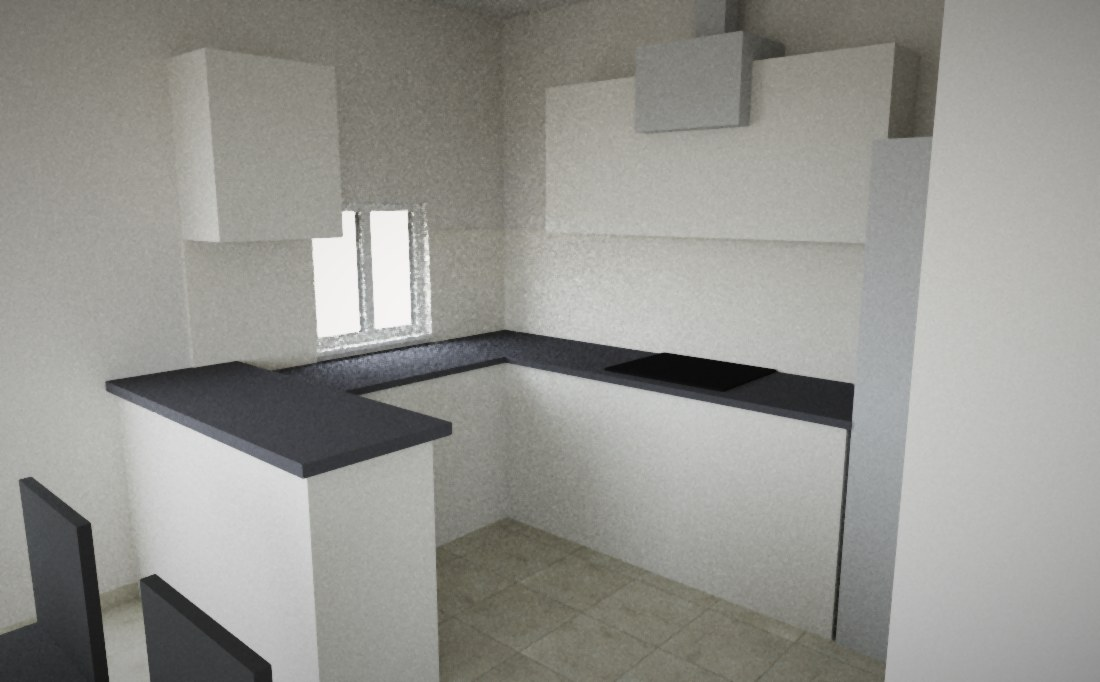
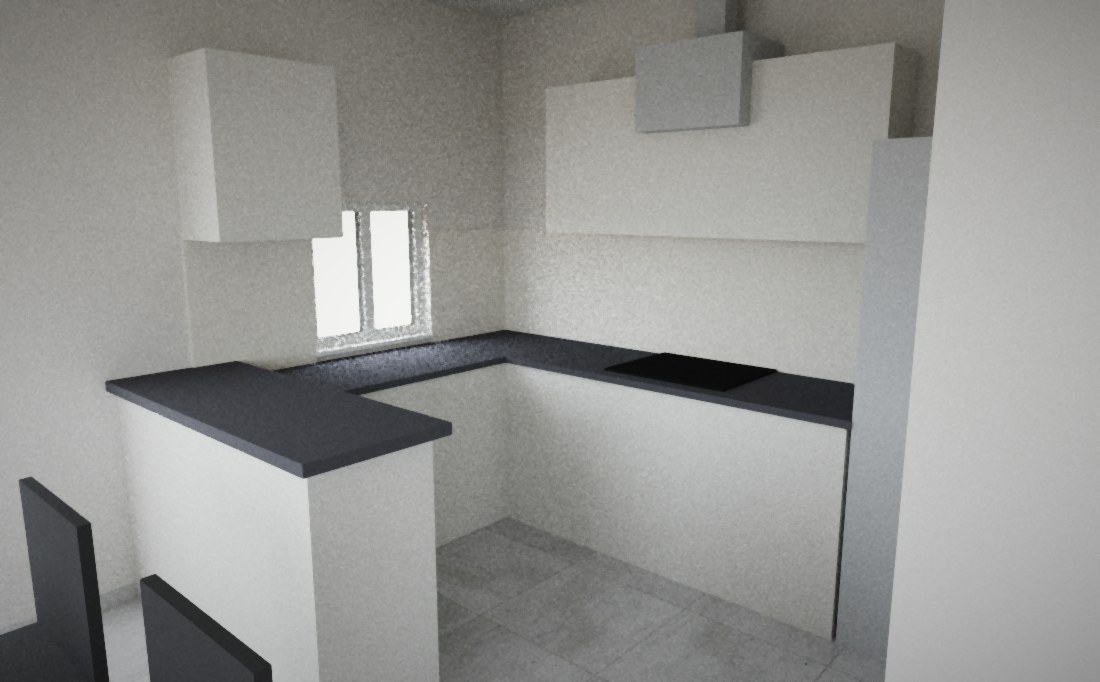
Zona social: cambio a porcelanato Striato Bianco pulido
Las 18 cajas de Jónico Gris (sin retirar) se cambiaron el 13/11 por 29
cajas de porcelanato Striato Bianco pulido 57,7x57,7; diferencia de
$ 600.000 en un pago. Gastos, cómputo y lista de compra actualizados
(falta el Keraflex y la pastina); renders del Living y la Cocina con el
piso nuevo.

Changed region(s): [[0.4327, 0.7698, 0.8036, 1.0], [0.4018, 0.8622, 0.4945, 0.893], [0.0927, 0.8622, 0.1236, 0.893]]

diff --git a/compras-pisos.html b/compras-pisos.html
@@ -58,13 +58,13 @@ p{font-size:13px;line-height:1.65}
 Precios de lista de la web al <b>11/11/2026</b> · <b>6 cuotas sin interés solo pagando con Nave</b> (por Mercado Pago tienen recargo: en el local fue ≈ 7 %) · <b>5% menos por transferencia</b>. Cantidades del <a href="computo.html#sec-7">cómputo de pisos y revestimientos</a>. Marcá cada ítem a medida que lo comprás (queda guardado en este navegador).</div>
 
 <div class="sheet">
-<h2>Ya comprado — 11/11 <span class="badge" style="background:#eef7ec;color:#4e7638">pisos de la casa</span></h2>
+<h2>Ya comprado — 11/11 y 13/11 <span class="badge" style="background:#eef7ec;color:#4e7638">pisos de la casa</span></h2>
 <table>
 <tr><th>Producto</th><th class="n">Cantidad</th><th class="n">Para</th><th class="n">Pagado</th></tr>
-<tr><td><a href="https://zeramiko.com/productos/ceramico-allpa-jonico-gris-36x36-1-80009-m2/" target="_blank">Cerámico Allpa 36x36 Jónico Gris, 1ª</a></td><td class="n">18 cajas · 48,24 m²</td><td class="n">Living-Comedor, Cocina, pasillos, Antebaño</td><td class="n">$ 521.375</td></tr>
+<tr><td><a href="https://zeramiko.com/productos/porcelanato-san-lorenzo-striato-bianco-pulido-57x57cm-1-calidad-23900-5cp0i/" target="_blank">Porcelanato San Lorenzo Striato Bianco pulido 57,7x57,7, 1ª</a><br><span style="font-size:11.5px;color:#8a877e">13/11 — a cambio de las 18 cajas de Jónico Gris (a cuenta $ 521.375) + $ 600.000 de diferencia</span></td><td class="n">29 cajas · 48,14 m²</td><td class="n">Living-Comedor, Cocina, pasillos, Antebaño</td><td class="n">$ 1.121.375</td></tr>
 <tr><td><a href="https://zeramiko.com/productos/ceramico-allpa-benfica-marfil-1-36x36-268m2-925090-26gqx/" target="_blank">Cerámico Allpa 36x36 Benfica Marfil, 1ª</a></td><td class="n">13 cajas · 34,84 m²</td><td class="n">Habitaciones 1, 2 y 3</td><td class="n">$ 376.549</td></tr>
-<tr><td>Pegamento Sika Ceram 25 kg (regalo por promo)</td><td class="n">10 bolsas</td><td class="n">Pisos de la casa</td><td class="n">$ 0</td></tr>
-<tr class="tot"><td colspan="3">Total — Mercado Pago, 6 cuotas de $ 149.654</td><td class="n">$ 897.924</td></tr>
+<tr><td>Pegamento Sika Ceram 25 kg (regalo por promo)</td><td class="n">10 bolsas</td><td class="n">Piso de los dormitorios (Benfica)</td><td class="n">$ 0</td></tr>
+<tr class="tot"><td colspan="3">Total — $ 897.924 en 6 cuotas de $ 149.654 (Mercado Pago) + $ 600.000 en un pago</td><td class="n">$ 1.497.924</td></tr>
 </table>
 <p style="font-size:12.5px;color:#6a6a63;margin-bottom:0">Alcanza con margen: la zona social necesita 42,9 m² y los dormitorios 28,0 m² (con 10% de desperdicio). Guardar al menos 1 caja de cada uno para reparaciones. Registrado en <a href="gastos.html">Gastos</a>.</p>
 </div>
@@ -80,9 +80,9 @@ Precios de lista de la web al <b>11/11/2026</b> · <b>6 cuotas sin interés solo
 <div class="sheet">
 <h2>Ideal — cálida <span style="font-weight:400;color:#8a877e;font-size:12.5px">piso del baño granito · paredes blancas · cocina plaqueta artesanal</span></h2>
 <div class="kpis">
-  <div class="kpi"><span>Total de lista</span><b>$ 477.441</b></div>
-  <div class="kpi"><span>6 cuotas sin interés (Nave)</span><b>$ 79.574</b></div>
-  <div class="kpi"><span>Por transferencia (−5%)</span><b>$ 453.569</b></div>
+  <div class="kpi"><span>Total de lista</span><b>$ 800.855</b></div>
+  <div class="kpi"><span>6 cuotas sin interés (Nave)</span><b>$ 133.476</b></div>
+  <div class="kpi"><span>Por transferencia (−5%)</span><b>$ 760.812</b></div>
 </div>
 
 <h3>Pisos y revestimientos</h3>
@@ -97,19 +97,19 @@ Precios de lista de la web al <b>11/11/2026</b> · <b>6 cuotas sin interés solo
 <table>
 <tr><th></th><th>Producto</th><th class="n">Cantidad</th><th class="n hide-m">Precio unidad</th><th class="n">Subtotal</th><th class="n hide-m">Stock web</th></tr>
 <tr data-id="c-mapeset"><td class="chk"><input type="checkbox"></td><td><span class="zona">Para el piso del Baño + Lavadero (≈ 5 kg/m²)</span><a href="https://zeramiko.com/productos/pegamento-mapeset-gris-ceramico-25kg/" target="_blank">Pegamento Mapeset Gris Cerámico 25 kg</a></td><td class="n"><b>2 bolsas</b></td><td class="n hide-m">$ 8.725</td><td class="n">$ 17.450</td><td class="n hide-m">300</td></tr>
+<tr data-id="c-keraflex"><td class="chk"><input type="checkbox"></td><td><span class="zona">Para el porcelanato de la zona social (doble encolado, ≈ 6,5 kg/m²)</span><a href="https://zeramiko.com/productos/adhesivo-cementicio-mapei-keraflex-grey-gris-25-kg-119125-1o7yi/" target="_blank">Adhesivo Mapei Keraflex Gris 25 kg</a><span class="det">Pegamento para porcelanato — el Sika Ceram de regalo es para el Benfica</span></td><td class="n"><b>11 bolsas</b></td><td class="n hide-m">$ 32.500</td><td class="n">$ 357.500</td><td class="n hide-m">50</td></tr>
 <tr data-id="c-construkor"><td class="chk"><input type="checkbox"></td><td><span class="zona">Para las paredes de Baño y Cocina (≈ 4 kg/m²)</span><a href="https://zeramiko.com/productos/pegamento-construkor-impermeable-x-25kg/" target="_blank">Pegamento Klaukol Construkor Impermeable 25 kg</a><span class="det">Para azulejos y cerámicas de pared</span></td><td class="n"><b>3 bolsas</b></td><td class="n hide-m">$ 6.800</td><td class="n">$ 20.400</td><td class="n hide-m">299</td></tr>
-<tr data-id="c-extra"><td class="chk"><input type="checkbox"></td><td><span class="zona">Refuerzo para los pisos de la casa — solo si el colocador lo pide</span><a href="https://zeramiko.com/productos/pegamento-mapeset-gris-ceramico-25kg/" target="_blank">Pegamento Mapeset Gris Cerámico 25 kg</a><span class="det">Las 10 bolsas de Sika Ceram cubren ≈ 250 kg; 64,5 m² de 36x36 usan 260–320 kg</span></td><td class="n"><b>3 bolsas</b></td><td class="n hide-m">$ 8.725</td><td class="n">$ 26.175</td><td class="n hide-m">300</td></tr>
-<tr data-id="c-pastinas"><td class="chk"><input type="checkbox"></td><td><span class="zona">Pastina Klaukol antihongos, bolsas de 1 kg</span><b>15 kg para los pisos de la casa</b> (un solo color para el Jónico Gris y el Benfica Marfil, elegido con las dos piezas en la mano) · 2 kg para el piso del Baño (<a href="https://zeramiko.com/productos/pastina-klukol-blenda-x-1kg/" target="_blank">Blenda</a> o <a href="https://zeramiko.com/productos/pastina-klukol-caoba-x-1kg/" target="_blank">Caoba</a>) · 4 kg para las paredes (<a href="https://zeramiko.com/productos/pastina-klaukol-talco-x-1kg/" target="_blank">Talco</a>, claro)<span class="det">Pedí ver la carta de colores en el local. Talco tiene solo 20 en stock web.</span></td><td class="n"><b>21 kg</b></td><td class="n hide-m">$ 2.637</td><td class="n">$ 55.377</td><td class="n hide-m">—</td></tr>
-<tr class="tot"><td></td><td>Total ideal cálida</td><td></td><td class="hide-m"></td><td class="n">$ 477.441</td><td class="hide-m"></td></tr>
+<tr data-id="c-pastinas"><td class="chk"><input type="checkbox"></td><td><span class="zona">Pastina Klaukol antihongos, bolsas de 1 kg</span><b>12 kg para los pisos de la casa</b>: 6 para el porcelanato y 6 para el Benfica, del mismo color (elegido con las dos piezas en la mano) · 2 kg para el piso del Baño (<a href="https://zeramiko.com/productos/pastina-klukol-blenda-x-1kg/" target="_blank">Blenda</a> o <a href="https://zeramiko.com/productos/pastina-klukol-caoba-x-1kg/" target="_blank">Caoba</a>) · 4 kg para las paredes (<a href="https://zeramiko.com/productos/pastina-klaukol-talco-x-1kg/" target="_blank">Talco</a>, claro)<span class="det">Pedí ver la carta de colores en el local. Talco tiene solo 20 en stock web.</span></td><td class="n"><b>18 kg</b></td><td class="n hide-m">$ 2.637</td><td class="n">$ 47.466</td><td class="n hide-m">—</td></tr>
+<tr class="tot"><td></td><td>Total ideal cálida</td><td></td><td class="hide-m"></td><td class="n">$ 800.855</td><td class="hide-m"></td></tr>
 </table>
 
 <h3>Mensaje para pedir confirmación</h3>
-<div class="msg" id="msg-calida">Hola! Ya compré los pisos (factura B 00052-00102024). Ahora quiero:
+<div class="msg" id="msg-calida">Hola! Ya compré los pisos (factura B 00052-00102024 y el cambio a porcelanato). Ahora quiero:
 • Cerámico Scop PS Granito Marrón 33x33: 5 cajas
 • Revestimiento Scop Acacia Blanco Satinado 33x45: 8 cajas
 • Revestimiento importado 7,5x26 Calce: 140 unidades
-• Mapeset 25 kg: 2 bolsas · Klaukol Construkor 25 kg: 3 bolsas
-• Pastina Klaukol: 21 kg (colores a elegir en el local)
+• Mapei Keraflex 25 kg: 11 bolsas · Mapeset 25 kg: 2 · Klaukol Construkor 25 kg: 3
+• Pastina Klaukol: 18 kg (colores a elegir en el local)
 
 ¿Me confirman:
 1. Stock de todo, con las cajas del mismo lote y tono?
@@ -125,37 +125,37 @@ Gracias!</div>
 <div class="sheet">
 <h2>Alternativa gris <span style="font-weight:400;color:#8a877e;font-size:12.5px">piso del baño gris mate · paredes blancas · cocina subway</span></h2>
 <div class="kpis">
-  <div class="kpi"><span>Total de lista</span><b>$ 513.097</b></div>
-  <div class="kpi"><span>6 cuotas sin interés (Nave)</span><b>$ 85.516</b></div>
-  <div class="kpi"><span>Por transferencia (−5%)</span><b>$ 487.442</b></div>
+  <div class="kpi"><span>Total de lista</span><b>$ 836.511</b></div>
+  <div class="kpi"><span>6 cuotas sin interés (Nave)</span><b>$ 139.419</b></div>
+  <div class="kpi"><span>Por transferencia (−5%)</span><b>$ 794.685</b></div>
 </div>
-<p style="font-size:12.5px;color:#6a6a63">Como el Antebaño quedó con el Jónico Gris, un piso gris en el Baño sigue la misma línea al pasar de un ambiente al otro.</p>
+<p style="font-size:12.5px;color:#6a6a63">Como el Antebaño va con el Striato Bianco (gris claro), un piso gris en el Baño sigue la misma línea al pasar de un ambiente al otro.</p>
 
 <h3>Pisos y revestimientos</h3>
 <table>
 <tr><th></th><th>Producto</th><th class="n">Cantidad</th><th class="n hide-m">Precio unidad</th><th class="n">Subtotal</th><th class="n hide-m">Stock web</th></tr>
 <tr data-id="g-bano"><td class="chk"><input type="checkbox"></td><td><span class="zona">Piso — Baño + Lavadero (7,5 m²)</span><a href="https://zeramiko.com/productos/ceramico-scop-cemento-tala-gris-1-45x45-226m2-900090-1jv7g/" target="_blank">Cerámico Scop Cemento Tala Gris 45x45</a><span class="det">1ª · mate · tránsito P4 · 2,26 m²/caja · llega a 9,04 m² (justo: si el colocador corta mucho, 5 cajas)</span></td><td class="n"><b>4 cajas</b></td><td class="n hide-m">$ 22.327</td><td class="n">$ 89.306</td><td class="n hide-m">200</td></tr>
 <tr data-id="g-pbano"><td class="chk"><input type="checkbox"></td><td><span class="zona">Paredes del Baño, a 2,10 m (14,7 m²)</span><a href="https://zeramiko.com/productos/revestimiento-scop-acacia-blanco-satinado-1-33x45-209m2-1070090-ds25w/" target="_blank">Revestimiento Scop Acacia Blanco Satinado 33x45</a><span class="det">1ª · 2,09 m²/caja · blanco para no cerrar un baño de 1,30 m de ancho · si lo querés gris: <a href="https://zeramiko.com/productos/rev-allpa-california-gris-claro-34x51-1-9-30090-m2-bzd2v/" target="_blank">Allpa California Gris Claro 34x51 mate</a></span></td><td class="n"><b>8 cajas</b></td><td class="n hide-m">$ 24.455</td><td class="n">$ 195.639</td><td class="n hide-m">500</td></tr>
-<tr data-id="g-coc"><td class="chk"><input type="checkbox"></td><td><span class="zona">Pared de la Cocina (2,4 m²)</span><a href="https://zeramiko.com/productos/revestimiento-linea-subway-blanco-brillante-75-x-15-cm-x-unidad-12pq4/" target="_blank">Revestimiento Subway Blanco Brillante 7,5x15</a><span class="det">Se vende por unidad (≈ 89 por m²) · blanco frío, acompaña el Jónico Gris</span></td><td class="n"><b>250 unid.</b></td><td class="n hide-m">$ 435</td><td class="n">$ 108.750</td><td class="n hide-m">500</td></tr>
+<tr data-id="g-coc"><td class="chk"><input type="checkbox"></td><td><span class="zona">Pared de la Cocina (2,4 m²)</span><a href="https://zeramiko.com/productos/revestimiento-linea-subway-blanco-brillante-75-x-15-cm-x-unidad-12pq4/" target="_blank">Revestimiento Subway Blanco Brillante 7,5x15</a><span class="det">Se vende por unidad (≈ 89 por m²) · blanco frío, acompaña el gris claro del Striato</span></td><td class="n"><b>250 unid.</b></td><td class="n hide-m">$ 435</td><td class="n">$ 108.750</td><td class="n hide-m">500</td></tr>
 </table>
 
 <h3>Pegamentos y pastinas</h3>
 <table>
 <tr><th></th><th>Producto</th><th class="n">Cantidad</th><th class="n hide-m">Precio unidad</th><th class="n">Subtotal</th><th class="n hide-m">Stock web</th></tr>
 <tr data-id="g-mapeset"><td class="chk"><input type="checkbox"></td><td><span class="zona">Para el piso del Baño + Lavadero</span><a href="https://zeramiko.com/productos/pegamento-mapeset-gris-ceramico-25kg/" target="_blank">Pegamento Mapeset Gris Cerámico 25 kg</a></td><td class="n"><b>2 bolsas</b></td><td class="n hide-m">$ 8.725</td><td class="n">$ 17.450</td><td class="n hide-m">300</td></tr>
+<tr data-id="g-keraflex"><td class="chk"><input type="checkbox"></td><td><span class="zona">Para el porcelanato de la zona social (doble encolado, ≈ 6,5 kg/m²)</span><a href="https://zeramiko.com/productos/adhesivo-cementicio-mapei-keraflex-grey-gris-25-kg-119125-1o7yi/" target="_blank">Adhesivo Mapei Keraflex Gris 25 kg</a><span class="det">Pegamento para porcelanato — el Sika Ceram de regalo es para el Benfica</span></td><td class="n"><b>11 bolsas</b></td><td class="n hide-m">$ 32.500</td><td class="n">$ 357.500</td><td class="n hide-m">50</td></tr>
 <tr data-id="g-construkor"><td class="chk"><input type="checkbox"></td><td><span class="zona">Para las paredes de Baño y Cocina</span><a href="https://zeramiko.com/productos/pegamento-construkor-impermeable-x-25kg/" target="_blank">Pegamento Klaukol Construkor Impermeable 25 kg</a></td><td class="n"><b>3 bolsas</b></td><td class="n hide-m">$ 6.800</td><td class="n">$ 20.400</td><td class="n hide-m">299</td></tr>
-<tr data-id="g-extra"><td class="chk"><input type="checkbox"></td><td><span class="zona">Refuerzo para los pisos de la casa — solo si el colocador lo pide</span><a href="https://zeramiko.com/productos/pegamento-mapeset-gris-ceramico-25kg/" target="_blank">Pegamento Mapeset Gris Cerámico 25 kg</a></td><td class="n"><b>3 bolsas</b></td><td class="n hide-m">$ 8.725</td><td class="n">$ 26.175</td><td class="n hide-m">300</td></tr>
-<tr data-id="g-pastinas"><td class="chk"><input type="checkbox"></td><td><span class="zona">Pastina Klaukol antihongos, bolsas de 1 kg</span><b>15 kg para los pisos de la casa</b> y 2 kg para el piso del Baño (gris: la web no la lista, pedirla en el local — <a href="https://zeramiko.com/productos/pastina-klaukol-hulla-x-1kg/" target="_blank">Hulla</a> es muy oscura) · 4 kg para las paredes (<a href="https://zeramiko.com/productos/pastina-klaukol-talco-x-1kg/" target="_blank">Talco</a>)<span class="det">Talco tiene solo 20 en stock web.</span></td><td class="n"><b>21 kg</b></td><td class="n hide-m">$ 2.637</td><td class="n">$ 55.377</td><td class="n hide-m">—</td></tr>
-<tr class="tot"><td></td><td>Total alternativa gris</td><td></td><td class="hide-m"></td><td class="n">$ 513.097</td><td class="hide-m"></td></tr>
+<tr data-id="g-pastinas"><td class="chk"><input type="checkbox"></td><td><span class="zona">Pastina Klaukol antihongos, bolsas de 1 kg</span><b>12 kg para los pisos de la casa</b> (porcelanato y Benfica, mismo color) y 2 kg para el piso del Baño (gris: la web no la lista, pedirla en el local — <a href="https://zeramiko.com/productos/pastina-klaukol-hulla-x-1kg/" target="_blank">Hulla</a> es muy oscura) · 4 kg para las paredes (<a href="https://zeramiko.com/productos/pastina-klaukol-talco-x-1kg/" target="_blank">Talco</a>)<span class="det">Talco tiene solo 20 en stock web.</span></td><td class="n"><b>18 kg</b></td><td class="n hide-m">$ 2.637</td><td class="n">$ 47.466</td><td class="n hide-m">—</td></tr>
+<tr class="tot"><td></td><td>Total alternativa gris</td><td></td><td class="hide-m"></td><td class="n">$ 836.511</td><td class="hide-m"></td></tr>
 </table>
 
 <h3>Mensaje para pedir confirmación</h3>
-<div class="msg" id="msg-gris">Hola! Ya compré los pisos (factura B 00052-00102024). Ahora quiero:
+<div class="msg" id="msg-gris">Hola! Ya compré los pisos (factura B 00052-00102024 y el cambio a porcelanato). Ahora quiero:
 • Cerámico Scop Cemento Tala Gris 45x45: 4 cajas
 • Revestimiento Scop Acacia Blanco Satinado 33x45: 8 cajas
 • Revestimiento Subway Blanco Brillante 7,5x15: 250 unidades
-• Mapeset 25 kg: 2 bolsas · Klaukol Construkor 25 kg: 3 bolsas
-• Pastina Klaukol: 21 kg (gris claro y Talco)
+• Mapei Keraflex 25 kg: 11 bolsas · Mapeset 25 kg: 2 · Klaukol Construkor 25 kg: 3
+• Pastina Klaukol: 18 kg (gris claro y Talco)
 
 ¿Me confirman:
 1. Stock de todo, con las cajas del mismo lote y tono?
@@ -172,7 +172,7 @@ Gracias!</div>
 <ol class="check">
 <li><b>Mismo lote y tono</b> en todas las cajas de cada producto. Comprá cada uno de una vez.</li>
 <li><b>Baño:</b> que confirmen que el piso elegido es antideslizante o apto para ducha.</li>
-<li><b>Pastinas:</b> llevá una pieza del Jónico Gris y una del Benfica Marfil y elegí un solo color que vaya con las dos.</li>
+<li><b>Pastinas:</b> llevá una pieza del Striato Bianco y una del Benfica Marfil y elegí un solo color que vaya con las dos.</li>
 <li><b>Pago:</b> elegí <b>Nave</b> para las 6 cuotas sin interés. Con Mercado Pago, en la compra de los pisos hubo ≈ 7 % de recargo ($ 58.742).</li>
 <li><b>Envío:</b> preguntá costo y que entreguen todo junto.</li>
 </ol>
@@ -181,9 +181,9 @@ Gracias!</div>
 <div class="sheet">
 <h2>Para el colocador — pisos de la casa</h2>
 <ol class="check">
-<li>El cambio de Jónico Gris a Benfica Marfil va <b>justo debajo de la hoja de cada puerta de dormitorio</b>, cerrada.</li>
-<li>Las dos son 36x36: arrancar el replanteo desde el pasillo para que <b>las juntas sigan en línea</b> al entrar a cada habitación.</li>
-<li><b>Misma pastina</b> en las dos zonas, juntas de ≈ 3 mm.</li>
+<li>El cambio de Striato Bianco (porcelanato) a Benfica Marfil (cerámico) va <b>justo debajo de la hoja de cada puerta de dormitorio</b>, cerrada. Ojo con el espesor: si no coinciden, nivelar con el pegamento para que no quede escalón.</li>
+<li>Porcelanato de 57,7x57,7 rectificado: <b>carpeta bien plana</b> (regla de 2 m), <b>niveladores</b> y <b>doble encolado con Keraflex</b>, junta de ~2 mm. Arrancar el replanteo desde el centro del pasillo para que los cortes queden parejos.</li>
+<li><b>Misma pastina</b> en las dos zonas: junta de ~2 mm en el porcelanato y ~3 mm en el Benfica.</li>
 <li>Mezclar piezas de varias cajas al colocar, para repartir cualquier diferencia de tono.</li>
 <li>Guardar al menos <b>1 caja de cada piso</b> para reparaciones.</li>
 </ol>

diff --git a/computo.html b/computo.html
@@ -199,9 +199,9 @@ h2{scroll-margin-top:12px}
 </div>
 
 <div class="sheet">
-<h2>Pisos y revestimientos <span class="badge badge-live">piso de la casa comprado</span></h2>
+<h2>Pisos y revestimientos <span class="badge badge-live">pisos de la casa comprados</span></h2>
 <div class="ok"><b>Lo que falta comprar</b> (Baño + Lavadero, paredes, pegamentos y pastinas) está en la <a href="compras-pisos.html">lista de compra de pisos y revestimientos</a>, con precios, cuotas y la alternativa gris.</div>
-<p>Superficie de piso <b>real</b> por ambiente: las medidas del <a href="plano-general.html">cuadro de superficies</a> son a eje de muro, así que a cada lado se descuentan ~0,10 m (medio muro de 0,15 m + revoque). Se separa en dos zonas porque Baño y Lavadero llevan otro piso (antideslizante, pieza chica que siga la pendiente de la ducha y de las rejillas). El resto de la casa lleva dos cerámicos parecidos del mismo formato (36x36): uno para la zona social y otro para los dormitorios. No incluye Galería ni Garage, ni revestimiento de paredes.</p>
+<p>Superficie de piso <b>real</b> por ambiente: las medidas del <a href="plano-general.html">cuadro de superficies</a> son a eje de muro, así que a cada lado se descuentan ~0,10 m (medio muro de 0,15 m + revoque). Se separa en dos zonas porque Baño y Lavadero llevan otro piso (antideslizante, pieza chica que siga la pendiente de la ducha y de las rejillas). El resto de la casa lleva dos pisos: porcelanato pulido en la zona social y cerámico en los dormitorios, los dos claros con aspecto mármol. No incluye Galería ni Garage, ni revestimiento de paredes.</p>
 
 <h3>Superficie por ambiente</h3>
 <table><tr><th>Zona</th><th>Ambiente</th><th style="text-align:right">Piso real (m²)</th></tr>
@@ -226,13 +226,13 @@ h2{scroll-margin-top:12px}
 <tr><td>Baño + Lavadero</td><td class="n">7,5 m²</td><td class="n">—</td><td class="n"><b>8,7 m²</b></td></tr>
 </table>
 
-<h3>Resto de la casa — comprado el 11/11</h3>
+<h3>Resto de la casa — comprado (11/11 y cambio del 13/11)</h3>
 <table><tr><th>Zona</th><th>Producto</th><th style="text-align:right">Necesario<br>(piso + 10%)</th><th style="text-align:right">Comprado</th><th style="text-align:right">Sobra</th></tr>
-<tr><td>Living-Comedor, Cocina, pasillos y Antebaño<br><span style="font-size:11.5px;color:#8a877e">39,0 m² de piso</span></td><td><a href="https://zeramiko.com/productos/ceramico-allpa-jonico-gris-36x36-1-80009-m2/" target="_blank">Cerámico Allpa 36x36 Jónico Gris</a>, 1ª</td><td class="n">42,9 m²</td><td class="n"><b>18 cajas</b> · 48,24 m²</td><td class="n">5,3 m² (≈ 2 cajas)</td></tr>
+<tr><td>Living-Comedor, Cocina, pasillos y Antebaño<br><span style="font-size:11.5px;color:#8a877e">39,0 m² de piso</span></td><td><a href="https://zeramiko.com/productos/porcelanato-san-lorenzo-striato-bianco-pulido-57x57cm-1-calidad-23900-5cp0i/" target="_blank">Porcelanato San Lorenzo Striato Bianco pulido 57,7x57,7</a>, 1ª<br><span style="font-size:11.5px;color:#8a877e">Comprado el 13/11, a cambio de las 18 cajas de Jónico Gris del 11/11</span></td><td class="n">42,9 m²</td><td class="n"><b>29 cajas</b> · 48,14 m²</td><td class="n">5,2 m² (≈ 3 cajas)</td></tr>
 <tr><td>Habitaciones 1, 2 y 3<br><span style="font-size:11.5px;color:#8a877e">25,5 m² de piso</span></td><td><a href="https://zeramiko.com/productos/ceramico-allpa-benfica-marfil-1-36x36-268m2-925090-26gqx/" target="_blank">Cerámico Allpa 36x36 Benfica Marfil</a>, 1ª</td><td class="n">28,0 m²</td><td class="n"><b>13 cajas</b> · 34,84 m²</td><td class="n">6,8 m² (≈ 2,5 cajas)</td></tr>
-<tr class="tot"><td colspan="2">Total</td><td class="n">70,9 m²</td><td class="n">31 cajas · 83,08 m²</td><td class="n">12,1 m²</td></tr>
+<tr class="tot"><td colspan="2">Total</td><td class="n">70,9 m²</td><td class="n">82,98 m²</td><td class="n">12,1 m²</td></tr>
 </table>
-<p style="font-size:12.5px;color:#6a6a63">Con la compra vinieron de regalo <b>10 bolsas de pegamento Sika Ceram</b> (promo: 1 cada 8 m²). Para 64,5 m² de cerámico 36x36 se usan unos 4–5 kg/m² (260–320 kg): pueden faltar 1 a 3 bolsas — comprarlas cuando el colocador lo pida. Pastina para los pisos: ≈ 15 kg, del <b>mismo color en las dos zonas</b> para que el cambio de piso se lea continuo. El cambio de cerámico va justo debajo de la hoja de cada puerta de dormitorio, con las juntas alineadas (mismo módulo de 36 cm). Guardar al menos 1 caja de cada uno para reparaciones. Gasto registrado en <a href="gastos.html">Gastos</a>.</p>
+<p style="font-size:12.5px;color:#6a6a63"><b>Porcelanato:</b> falta comprar el pegamento para porcelanato (Keraflex, 11 bolsas, doble encolado; el Sika Ceram es para cerámico), carpeta bien plana (regla de 2 m), niveladores y junta de ~2 mm; ≈ 6 kg de pastina. Al ser pulido resbala mojado: felpudo absorbente en la corrediza y alfombra frente a la bacha. <b>Benfica:</b> las 10 bolsas de Sika Ceram de regalo quedaron para los dormitorios; 25,5 m² usan ≈ 130 kg (unas 5 bolsas), así que sobran. ≈ 6 kg de pastina, del <b>mismo color que la del porcelanato</b>. El cambio de piso va justo debajo de la hoja de cada puerta de dormitorio; cuidar que no quede escalón entre los dos espesores. Lo que falta comprar está en la <a href="compras-pisos.html">lista de compra</a>; el gasto, en <a href="gastos.html">Gastos</a>. Guardar al menos 1 caja de cada uno para reparaciones. Gasto registrado en <a href="gastos.html">Gastos</a>.</p>
 
 <h3>Baño + Lavadero — elegido</h3>
 <table><tr><th>Producto</th><th style="text-align:right">m² por caja</th><th style="text-align:right">Cajas</th><th style="text-align:right">m² que llegan</th></tr>
@@ -257,16 +257,16 @@ h2{scroll-margin-top:12px}
 <div class="warn"><b>Al pedir, redondear para arriba a cajas enteras</b> según los m² que trae cada caja del producto elegido. Baño y Lavadero llevan siempre 15% por los cortes alrededor de la ducha y las rejillas. Comprar todas las cajas de una zona juntas y del <b>mismo lote, tono y calibre</b> — si después faltan, las nuevas pueden no coincidir.</div>
 
 <h3>Cómo queda</h3>
-<p>Renders de cada ambiente con los pisos comprados (Jónico Gris en la zona social, Benfica Marfil en los dormitorios), según el plano. Tocá una imagen para verla en grande; cada ficha de ambiente tiene la suya.</p>
+<p>Renders de cada ambiente con los pisos comprados (porcelanato Striato Bianco pulido en la zona social, Benfica Marfil en los dormitorios), según el plano. Tocá una imagen para verla en grande; cada ficha de ambiente tiene la suya.</p>
 <div class="pisos-gal">
-<a href="renders/ambientes/living-comedor-1.jpg" target="_blank"><img src="renders/ambientes/living-comedor-1.jpg" alt="Living-Comedor" loading="lazy"><span>Living-Comedor — Jónico Gris</span></a>
+<a href="renders/ambientes/living-comedor-1.jpg" target="_blank"><img src="renders/ambientes/living-comedor-1.jpg" alt="Living-Comedor" loading="lazy"><span>Living-Comedor — Striato Bianco pulido</span></a>
 <a href="renders/ambientes/living-comedor-2.jpg" target="_blank"><img src="renders/ambientes/living-comedor-2.jpg" alt="Living-Comedor desde el Comedor" loading="lazy"><span>Living-Comedor, desde el Comedor</span></a>
-<a href="renders/ambientes/cocina.jpg" target="_blank"><img src="renders/ambientes/cocina.jpg" alt="Cocina" loading="lazy"><span>Cocina — Jónico Gris + pared Calce</span></a>
+<a href="renders/ambientes/cocina.jpg" target="_blank"><img src="renders/ambientes/cocina.jpg" alt="Cocina" loading="lazy"><span>Cocina — Striato Bianco + pared Calce</span></a>
 <a href="renders/ambientes/habitacion-1.jpg" target="_blank"><img src="renders/ambientes/habitacion-1.jpg" alt="Habitación 1" loading="lazy"><span>Habitación 1 — Benfica Marfil</span></a>
 <a href="renders/ambientes/habitacion-2.jpg" target="_blank"><img src="renders/ambientes/habitacion-2.jpg" alt="Habitación 2" loading="lazy"><span>Habitación 2 — Benfica Marfil</span></a>
 <a href="renders/ambientes/habitacion-3.jpg" target="_blank"><img src="renders/ambientes/habitacion-3.jpg" alt="Habitación 3" loading="lazy"><span>Habitación 3 — Benfica Marfil</span></a>
 </div>
-<p style="font-size:12px;color:#8a877e">El color del piso sale de las fotos de las piezas en el local. Muebles simplificados.</p>
+<p style="font-size:12px;color:#8a877e">El color del Benfica sale de las fotos de las piezas en el local; el del Striato, de la foto del fabricante. Muebles simplificados.</p>
 </div>
 
 <div class="sheet">

diff --git a/gastos.html b/gastos.html
@@ -280,6 +280,7 @@ Registro manual de compras y pagos — se actualiza a medida que se van cargando
 <p class="pendiente"><b>Sobre el destino "Tapia Este":</b> las compras del 25/06 en adelante se asumieron como compradas por adelantado para esa tarea (arrancó el 13/07) — es una inferencia por fecha, no un dato confirmado en la boleta.</p>
 <p class="pendiente"><b>Sobre la Casa (Etapa 3):</b> las compras se separan por tarea (cimientos y estructura, mampostería, capa aisladora, relleno y contrapiso). El plástico va en relleno y contrapiso porque se usó bajo el contrapiso y en las paredes interiores hasta el nivel del relleno. Los valores de la boleta final del 30/07 (Nº 0019-00046759) ya tienen aplicado el descuento por contado — la Plasticor bajó de 60 a 50 bolsas respecto del presupuesto inicial del mismo día.</p>
 <p class="pendiente"><b>Pisos de la Casa (11/11, Zeramiko):</b> pagado con tarjeta por Mercado Pago en 6 cuotas — el precio por caja de la factura ($ 28.965,30) ya incluye el recargo de esa forma de pago, ≈ 7 % sobre el precio de lista ($ 10.100,90/m² = $ 27.070,41 la caja). Las 10 bolsas de Sika Ceram fueron de regalo por la promo. A qué zona va cada piso se dedujo de las cantidades: el Jónico Gris (48,2 m²) es el único que alcanza para la zona social.</p>
+<p class="pendiente"><b>Cambio a porcelanato (13/11):</b> sin haber retirado el Jónico Gris, se cambiaron sus 18 cajas por 29 cajas de porcelanato Striato Bianco pulido para la zona social. Los $ 521.375 del Jónico quedaron a cuenta del porcelanato y se pagaron <b>$ 600.000 de diferencia en un solo pago</b>; la factura original sigue en sus 6 cuotas de Mercado Pago. El porcelanato costó en total $ 1.121.375 (≈ $ 38.668 la caja). Las 10 bolsas de Sika Ceram quedaron para el Benfica de los dormitorios.</p>
 </div>
 </div>
 
@@ -436,9 +437,10 @@ const MATERIALES = [
   {fecha:'2026-09-22', etapa:'Etapa 3', comp:'sin comprobante', prov:'Efectivo', destino:'Relleno y contrapiso — Casa', item:'Ripio para contrapiso', precio:'—', desc:'—', cant:'—', subtotal:150000},
   {fecha:'2026-09-22', etapa:'Etapa 3', comp:'sin comprobante', prov:'Efectivo', destino:'Relleno y contrapiso — Casa', item:'Cemento', precio:'$ 7.280,00', desc:'—', cant:'25', subtotal:182000},
   {fecha:'2026-09-23', etapa:'Etapa 3', comp:'sin comprobante', prov:'Efectivo', destino:'Relleno y contrapiso — Casa', item:'Cemento', precio:'$ 7.280,00', desc:'—', cant:'25', subtotal:182000},
-  {fecha:'2026-11-11', etapa:'Etapa 3', comp:'B 00052-00102024', prov:'Zeramiko', destino:'Pisos — Casa', item:'Cerámico Allpa 36x36 Jónico Gris 1ª (2,68 m²/caja) — Living-Comedor, Cocina, pasillos y Antebaño', precio:'$ 28.965,30', desc:'—', cant:'18 cajas', subtotal:521375},
+  {fecha:'2026-11-11', etapa:'Etapa 3', comp:'B 00052-00102024', prov:'Zeramiko', destino:'Pisos — Casa', item:'Cerámico Allpa 36x36 Jónico Gris 1ª (2,68 m²/caja) — cambiado el 13/11 por porcelanato (el importe quedó a cuenta)', precio:'$ 28.965,30', desc:'—', cant:'18 cajas', subtotal:521375},
   {fecha:'2026-11-11', etapa:'Etapa 3', comp:'B 00052-00102024', prov:'Zeramiko', destino:'Pisos — Casa', item:'Cerámico Allpa 36x36 Benfica Marfil 1ª (2,68 m²/caja) — dormitorios', precio:'$ 28.965,30', desc:'—', cant:'13 cajas', subtotal:376549},
-  {fecha:'2026-11-11', etapa:'Etapa 3', comp:'B 00052-00102024', prov:'Zeramiko', destino:'Pisos — Casa', item:'Pegamento Sika Ceram (promo: 1 bolsa cada 8 m² de cerámico)', precio:'$ 0,00', desc:'regalo', cant:'10 bolsas', subtotal:0}
+  {fecha:'2026-11-11', etapa:'Etapa 3', comp:'B 00052-00102024', prov:'Zeramiko', destino:'Pisos — Casa', item:'Pegamento Sika Ceram (promo: 1 bolsa cada 8 m² de cerámico)', precio:'$ 0,00', desc:'regalo', cant:'10 bolsas', subtotal:0},
+  {fecha:'2026-11-13', etapa:'Etapa 3', comp:'cambio sobre B 00052-00102024', prov:'Zeramiko', destino:'Pisos — Casa', item:'Porcelanato San Lorenzo Striato Bianco pulido 57,7x57,7 1ª (1,66 m²/caja) — Living-Comedor, Cocina, pasillos y Antebaño · diferencia del cambio por el Jónico', precio:'—', desc:'—', cant:'29 cajas', subtotal:600000}
 ];
 
 // Expuestos para que computo.html los lea en vivo por iframe (cruce comprado vs. estimado).

diff --git a/ambientes/living-comedor.html b/ambientes/living-comedor.html
@@ -70,10 +70,10 @@ p{font-size:13px;line-height:1.65}
 </div>
 
 <div class="sheet">
-<h2>Cómo queda <span style="font-weight:400;color:#8a877e;font-size:12.5px">Piso Allpa Jónico Gris 36x36</span></h2>
+<h2>Cómo queda <span style="font-weight:400;color:#8a877e;font-size:12.5px">Piso porcelanato Striato Bianco pulido 57,7x57,7</span></h2>
 <a href="../renders/ambientes/living-comedor-1.jpg" target="_blank"><img src="../renders/ambientes/living-comedor-1.jpg" alt="Living-Comedor visto desde el Living hacia el Comedor y la galería" loading="lazy" style="width:100%;height:auto;display:block;border:1px solid #e3e0d7;border-radius:6px;margin-top:10px"></a>
 <a href="../renders/ambientes/living-comedor-2.jpg" target="_blank"><img src="../renders/ambientes/living-comedor-2.jpg" alt="Living-Comedor visto desde el Comedor hacia el Living" loading="lazy" style="width:100%;height:auto;display:block;border:1px solid #e3e0d7;border-radius:6px;margin-top:10px"></a>
-<p style="font-size:12px;color:#8a877e;margin:8px 0 0">Render según el plano: aberturas, muebles y luces en su lugar, piezas y juntas a tamaño real. El color del piso sale de las fotos del local; los muebles son de referencia.</p>
+<p style="font-size:12px;color:#8a877e;margin:8px 0 0">Render según el plano: aberturas, muebles y luces en su lugar, piezas y juntas a tamaño real. El color del piso sale de la foto del fabricante (puede verse más blanco que en persona); los muebles son de referencia.</p>
 </div>
 
 <div class="sheet">

diff --git a/ambientes/cocina.html b/ambientes/cocina.html
@@ -109,9 +109,9 @@ p{font-size:13px;line-height:1.65}
 </div>
 
 <div class="sheet">
-<h2>Cómo queda <span style="font-weight:400;color:#8a877e;font-size:12.5px">Piso Allpa Jónico Gris 36x36 · pared Calce 7,5x26</span></h2>
+<h2>Cómo queda <span style="font-weight:400;color:#8a877e;font-size:12.5px">Piso porcelanato Striato Bianco pulido 57,7x57,7 · pared Calce 7,5x26</span></h2>
 <a href="../renders/ambientes/cocina.jpg" target="_blank"><img src="../renders/ambientes/cocina.jpg" alt="Cocina vista desde el Comedor" loading="lazy" style="width:100%;height:auto;display:block;border:1px solid #e3e0d7;border-radius:6px;margin-top:10px"></a>
-<p style="font-size:12px;color:#8a877e;margin:8px 0 0">Render según el plano: aberturas, muebles y luces en su lugar, piezas y juntas a tamaño real. El color del piso sale de las fotos del local; los muebles son de referencia.</p>
+<p style="font-size:12px;color:#8a877e;margin:8px 0 0">Render según el plano: aberturas, muebles y luces en su lugar, piezas y juntas a tamaño real. El color del piso sale de la foto del fabricante (puede verse más blanco que en persona); los muebles son de referencia.</p>
 </div>
 
 <div class="sheet">
